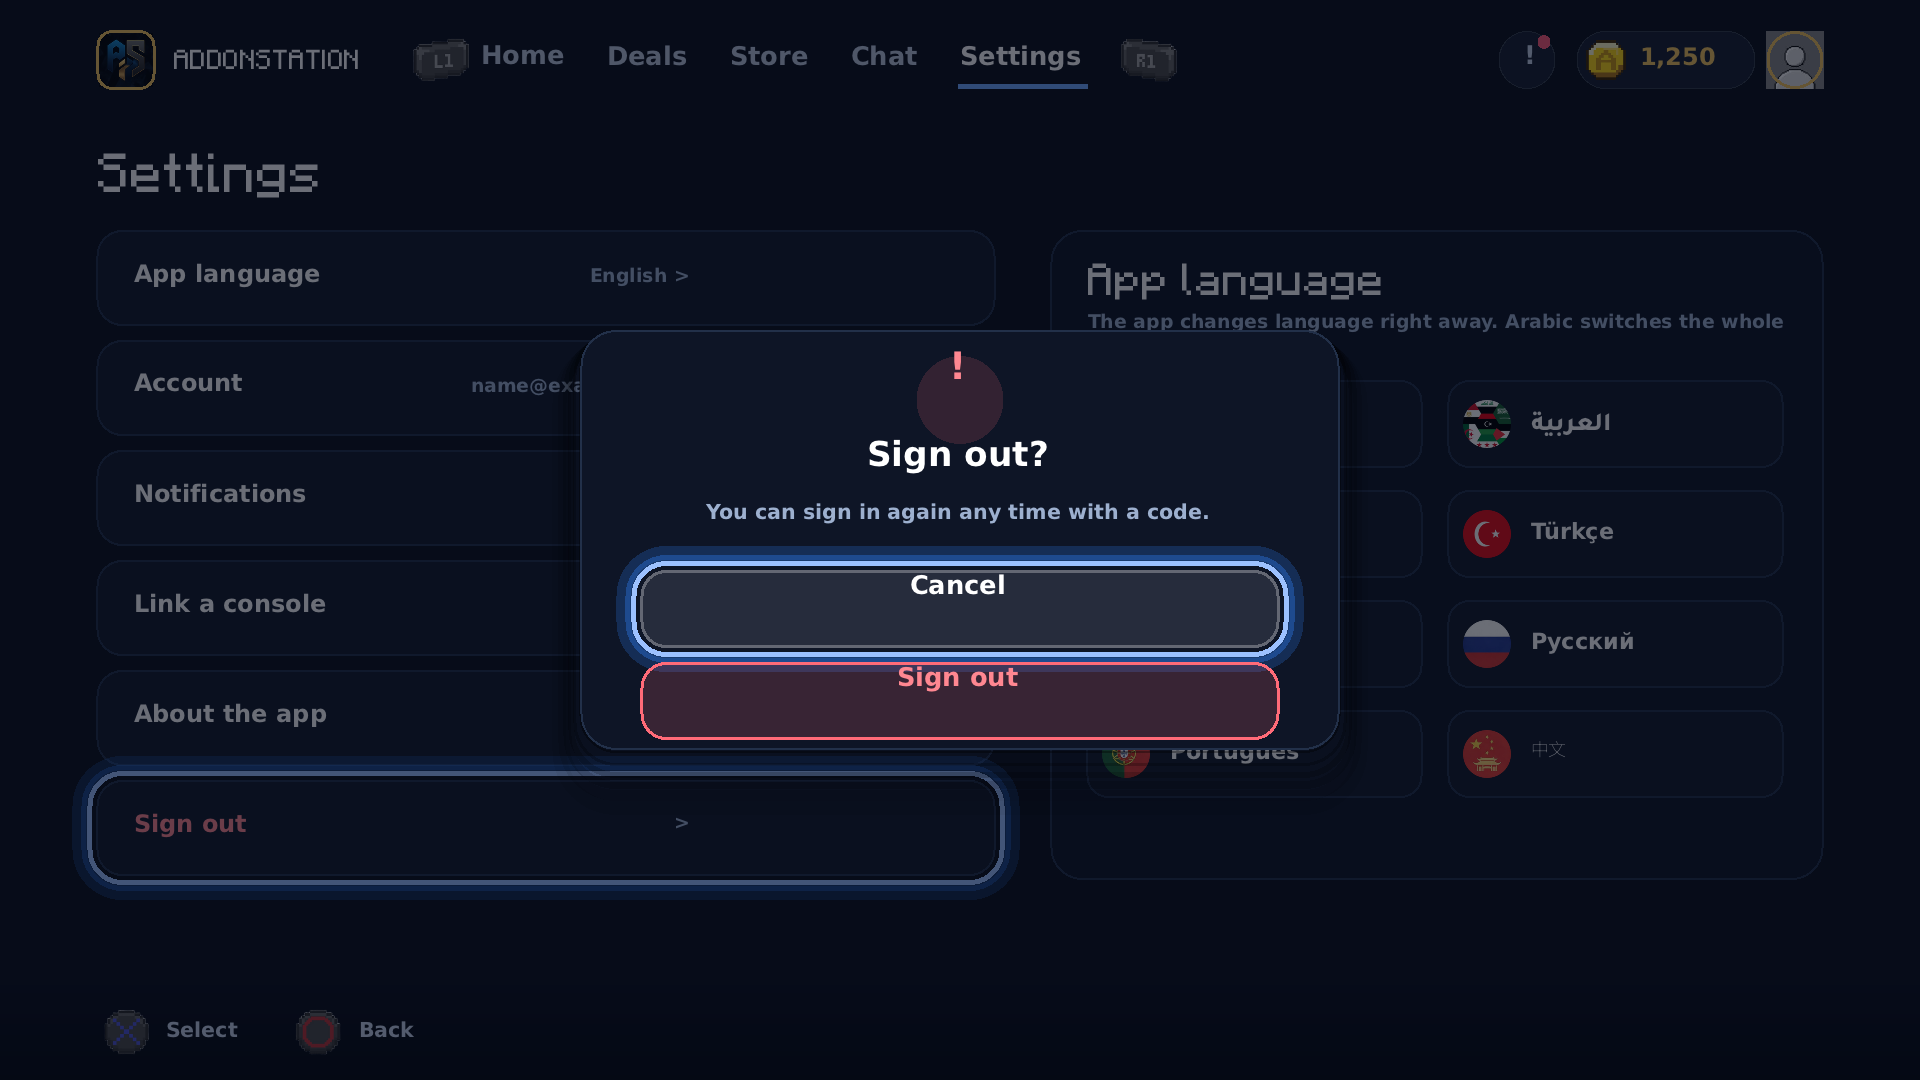
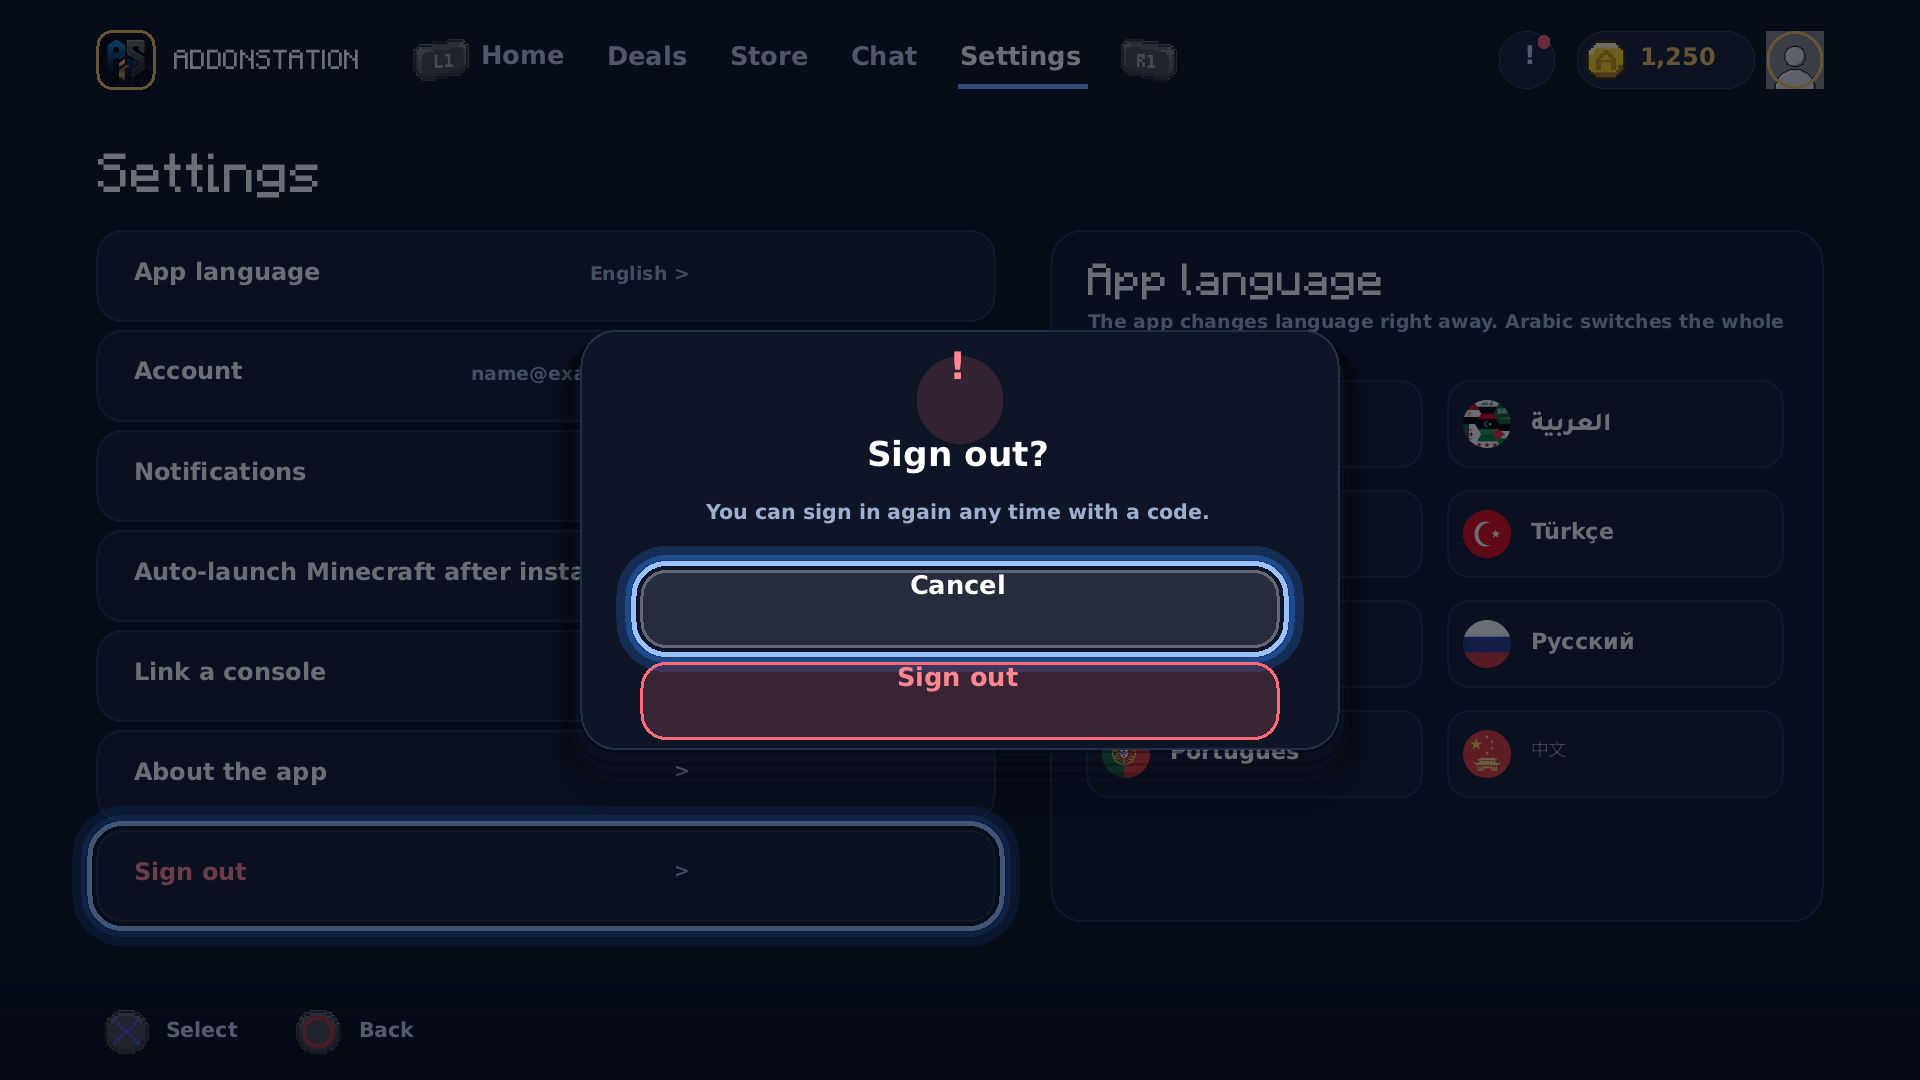
Add Settings toggle: auto-launch Minecraft after install (default OFF) [skip ci]

diff --git a/ps4-addon-test/src/screens.cpp b/ps4-addon-test/src/screens.cpp
@@ -145,6 +145,22 @@ const std::map<std::string, std::map<std::string, std::string>>& stringTable() {
         {"choose_language", {{"en", "Choose app language"}, {"ar", "اختر لغة التطبيق"},
                              {"fr", "Choisir la langue"}, {"tr", "Uygulama dilini seç"},
                              {"es", "Elegir idioma"}, {"ru", "Выберите язык"}, {"pt", "Escolher idioma"}, {"zh", "选择语言"}}},
+        {"autolaunch", {{"en", "Auto-launch Minecraft after install"},
+                        {"ar", "تشغيل Minecraft تلقائياً بعد التثبيت"},
+                        {"fr", "Lancer Minecraft après l'installation"},
+                        {"tr", "Kurulumdan sonra Minecraft'ı otomatik başlat"},
+                        {"es", "Iniciar Minecraft automáticamente al instalar"},
+                        {"ru", "Автозапуск Minecraft после установки"},
+                        {"pt", "Abrir Minecraft automaticamente após instalar"},
+                        {"zh", "安装后自动启动 Minecraft"}}},
+        {"autolaunch_on", {{"en", "Auto-launch ON"}, {"ar", "التشغيل التلقائي مُفعَّل"},
+                           {"fr", "Lancement auto activé"}, {"tr", "Otomatik başlatma açık"},
+                           {"es", "Inicio automático activado"}, {"ru", "Автозапуск включён"},
+                           {"pt", "Abertura automática ativada"}, {"zh", "自动启动已开启"}}},
+        {"autolaunch_off", {{"en", "Auto-launch OFF"}, {"ar", "التشغيل التلقائي مُعطَّل"},
+                            {"fr", "Lancement auto désactivé"}, {"tr", "Otomatik başlatma kapalı"},
+                            {"es", "Inicio automático desactivado"}, {"ru", "Автозапуск выключен"},
+                            {"pt", "Abertura automática desativada"}, {"zh", "自动启动已关闭"}}},
     };
     return kTable;
 }
@@ -1229,46 +1245,47 @@ void drawChat(UiEngine& e, int focus, bool roomOpen, const std::string& langCode
     drawLegendBar(e, {{"\xE2\x9C\x95", roomOpen ? "select" : "open"}, {"\xE2\x97\x8B", "back"}}, langCode);
 }
 
-void drawSettings(UiEngine& e, int focus, bool notifOn, const std::string& langCode) {
+void drawSettings(UiEngine& e, int focus, bool notifOn, bool autoLaunchOn, const std::string& langCode) {
     const bool rtl = langCode == "ar";
     e.clear(kBG);
     drawTopNav(e, 4, langCode, 1250);
 
     e.drawText("Settings", 96, 150, 44, kWHT, FontRole::Pixel, false, false);
 
-    struct Row { const char* label; const char* value; bool danger; };
-    const Row rows[6] = {
-        {"App language", "English >", false},
-        {"Account", "name@example.com", false},
-        {"Notifications", "", false},
-        {"Link a console", "1 device >", false},
-        {"About the app", ">", false},
-        {"Sign out", ">", true},
+    struct Row { std::string label; const char* value; bool danger; int toggle; };
+    const Row rows[7] = {
+        {"App language", "English >", false, 0},
+        {"Account", "name@example.com", false, 0},
+        {"Notifications", "", false, 1},
+        {tr("autolaunch", langCode), "", false, 2},
+        {"Link a console", "1 device >", false, 0},
+        {"About the app", ">", false, 0},
+        {"Sign out", ">", true, 0},
     };
     const int listX = 96, listW = 900;
-    for (int i = 0; i < 6; ++i) {
-        const int y = 230 + i * 110;
-        e.drawRoundRect(listX, y, listW, 96, 26, kSF);
-        e.drawRoundBorder(listX, y, listW, 96, 26, 2, kBD);
-        e.drawText(rows[i].label, listX + 36, y + 30, 28,
+    for (int i = 0; i < 7; ++i) {
+        const int y = 230 + i * 100;
+        e.drawRoundRect(listX, y, listW, 92, 26, kSF);
+        e.drawRoundBorder(listX, y, listW, 92, 26, 2, kBD);
+        e.drawText(rows[i].label, listX + 36, y + 28, 28,
                    rows[i].danger ? SDL_Color{255, 135, 145, 255} : kWHT,
-                   FontRole::Body, false, rtl);
-        if (i == 2) {
-            // toggle
+                   FontRole::Body, false, rtl, 560);
+        if (rows[i].toggle) {
+            const bool on = rows[i].toggle == 1 ? notifOn : autoLaunchOn;
             const int tx = listX + listW - 120;
-            e.drawRoundRect(tx, y + 26, 84, 44, 22, notifOn ? kBL : kBD);
-            e.drawCircle(tx + (notifOn ? 62 : 22), y + 48, 18, kWHT);
+            e.drawRoundRect(tx, y + 24, 84, 44, 22, on ? kBL : kBD);
+            e.drawCircle(tx + (on ? 62 : 22), y + 46, 18, kWHT);
         } else {
-            e.drawText(rows[i].value, listX + listW - 300, y + 34, 22, kMU,
+            e.drawText(rows[i].value, listX + listW - 300, y + 32, 22, kMU,
                        FontRole::Body, true, false, 260);
         }
-        if (focus == i) focusRing(e, listX, y, listW, 96, 26);
+        if (focus == i) focusRing(e, listX, y, listW, 92, 26);
     }
 
     // right panel: language grid
     const int rx = 1050, rw = 1920 - 96 - rx;
-    e.drawRoundRect(rx, 230, rw, 650, 32, SDL_Color{14, 21, 38, 255});
-    e.drawRoundBorder(rx, 230, rw, 650, 32, 2, kBD);
+    e.drawRoundRect(rx, 230, rw, 692, 32, SDL_Color{14, 21, 38, 255});
+    e.drawRoundBorder(rx, 230, rw, 692, 32, 2, kBD);
     e.drawText("App language", rx + 36, 260, 36, kWHT, FontRole::Pixel, false, false);
     e.drawText("The app changes language right away. Arabic switches the whole layout to right-to-left.",
                rx + 36, 310, 22, kMU, FontRole::Body, false, false, rw - 72);

diff --git a/ps4-addon-test/src/main.cpp b/ps4-addon-test/src/main.cpp
@@ -10,8 +10,9 @@
 // install page; category/filter chips apply a filter (visible active chip);
 // banner Back returns; "Shop the sale" opens Deals; L1/R1 switch tabs only
 // inside the app (Home · Deals · Store · Chat · Settings) and L2/R2 change
-// the Home offer; Settings rows act (language / notifications toggle / link
-// console / sign out with confirm dialog), text fields open the PS4 system
+// the Home offer; Settings rows act (language / notifications toggle /
+// auto-launch Minecraft after install / link console / sign out with confirm
+// dialog), text fields open the PS4 system
 // keyboard (sceImeDialog), Download installs content from the GitHub Release.
 
 #include "content_config.hpp"
@@ -68,6 +69,7 @@ struct AppState {
     int storeFilter = 0;   // Store filter chip 0..2
     int dealsFilter = 0;   // Deals chip 0..4
     bool notifOn = true;
+    bool autoLaunch = false;   // «تشغيل Minecraft تلقائياً بعد التثبيت» (يُقرأ من الإعدادات)
     bool roomOpen = false;
     bool saved = false;
 
@@ -101,7 +103,8 @@ int frameSignature(const AppState& s, double t) {
               (s.progress >= 100 ? 99 : s.progress) * 100 +
               (s.linked ? 11 : (codeSecs % 60));
     sig += s.heroIndex * 31337 + s.filterIndex * 2711 +
-           s.storeFilter * 397 + s.dealsFilter * 53;
+           s.storeFilter * 397 + s.dealsFilter * 53 +
+           (s.autoLaunch ? 31 : 0) + (s.notifOn ? 17 : 0);
     return sig;
 }
 
@@ -152,6 +155,7 @@ int main(int, char**) {
     double splashStart = bootTime;
     bool firstLaunch = true;
     state.codeUntil = bootTime + 582.0;   // 9:42 like the design
+    state.autoLaunch = pkgtest::loadAutoLaunchSetting();
 
     auto currentLang = [&state]() { return std::string(kLangCodes[state.langIndex]); };
     auto toast = [&state](const std::string& text) {
@@ -236,7 +240,8 @@ int main(int, char**) {
                         state.demoState = pkgtest::DemoState::Installed;
                         state.progress = 100;
                     }
-                });
+                },
+                state.autoLaunch);
 
             if (res.ok && res.queuedForMinecraft) {
                 state.demoState = pkgtest::DemoState::Installing;
@@ -346,8 +351,13 @@ int main(int, char**) {
                 if (state.focus == 0) { state.focus = state.langIndex; state.prevScreen = state.screen; state.screen = Screen::Language; }
                 else if (state.focus == 1) toast("Account: name@example.com");
                 else if (state.focus == 2) { state.notifOn = !state.notifOn; toast(state.notifOn ? "Notifications ON" : "Notifications OFF"); }
-                else if (state.focus == 3) { state.linked = false; state.code = makeCode(); state.codeUntil = nowSeconds() + 582.0; go(Screen::CodeLink); }
-                else if (state.focus == 4) toast("AddonStation PS4 v0.12 — official app");
+                else if (state.focus == 3) {
+                    state.autoLaunch = !state.autoLaunch;
+                    pkgtest::saveAutoLaunchSetting(state.autoLaunch);
+                    toast(pkgtest::tr(state.autoLaunch ? "autolaunch_on" : "autolaunch_off", currentLang()));
+                }
+                else if (state.focus == 4) { state.linked = false; state.code = makeCode(); state.codeUntil = nowSeconds() + 582.0; go(Screen::CodeLink); }
+                else if (state.focus == 5) toast("AddonStation PS4 v0.12 — official app");
                 else go(Screen::Confirm);
                 break;
             case Screen::Detail:
@@ -425,7 +435,7 @@ int main(int, char**) {
                 break;
             }
             case Screen::Settings: {
-                if (dy != 0) state.focus = std::max(0, std::min(5, state.focus + dy));
+                if (dy != 0) state.focus = std::max(0, std::min(6, state.focus + dy));
                 break;
             }
             case Screen::Confirm: {
@@ -602,13 +612,13 @@ int main(int, char**) {
                     pkgtest::drawChat(engine, state.focus, state.roomOpen, lang);
                     break;
                 case Screen::Settings:
-                    pkgtest::drawSettings(engine, state.focus, state.notifOn, lang);
+                    pkgtest::drawSettings(engine, state.focus, state.notifOn, state.autoLaunch, lang);
                     break;
                 case Screen::Detail:
                     pkgtest::drawInstallDemo(engine, state.demoState, state.progress, lang);
                     break;
                 case Screen::Confirm:
-                    pkgtest::drawSettings(engine, state.focus, state.notifOn, lang);
+                    pkgtest::drawSettings(engine, state.focus, state.notifOn, state.autoLaunch, lang);
                     pkgtest::drawConfirmDialog(engine, "Sign out?",
                                                "You can sign in again any time with a code.",
                                                "Sign out", "Cancel",

diff --git a/ps4-addon-test/src/installer.cpp b/ps4-addon-test/src/installer.cpp
@@ -716,6 +716,29 @@ bool copyTreeRecursive(const std::string& srcDir,
 // عام (external linkage) — يُستدعى من main.cpp لزر «فتح Minecraft» (△).
 bool launchMinecraftOnPs4() { return launchMinecraftImpl(); }
 
+bool loadAutoLaunchSetting(const std::string& configPath) {
+    std::FILE* fp = std::fopen(configPath.c_str(), "rb");
+    if (!fp) return false;   // الافتراضي: إيقاف (اللعبة لا تُطلق تلقائياً)
+    char v = '0';
+    if (std::fread(&v, 1, 1, fp) != 1) v = '0';
+    std::fclose(fp);
+    return v == '1';
+}
+
+bool saveAutoLaunchSetting(bool enabled, const std::string& configPath) {
+    const std::string parent = configPath.substr(0, configPath.find_last_of('/'));
+    if (!parent.empty()) {
+        int err = 0;
+        ensureDirectory(parent, err);
+    }
+    std::FILE* fp = std::fopen(configPath.c_str(), "wb");
+    if (!fp) return false;
+    const char v = enabled ? '1' : '0';
+    const bool ok = std::fwrite(&v, 1, 1, fp) == 1;
+    std::fclose(fp);
+    return ok;
+}
+
 std::string formatEnjoyNotification(const std::string& addonName, const std::string& langCode) {
     if (langCode == "ar") {
         return "تم تثبيت " + addonName + " — استمتع!";
@@ -854,7 +877,8 @@ CopyResult installOrQueueAddon(const std::string& sourceRawPath,
                                const std::string& preferredMojangDir,
                                const std::string& targetCategory,
                                const std::string& langCode,
-                               ProgressCallback onProgress) {
+                               ProgressCallback onProgress,
+                               bool autoLaunchMinecraft) {
     CopyResult result;
     result.targetCategory = sanitizeTargetCategory(targetCategory);
 
@@ -954,11 +978,12 @@ CopyResult installOrQueueAddon(const std::string& sourceRawPath,
 
     result.ok = true;
     result.queuedForMinecraft = true;
-    // v0.13: اللعبة لا تُطلق تلقائياً بعد التثبيت — اُلغِي الطلب.
-    // الملف يبقى مؤجَّلاً في stageDir وتُكمله المزامنة التلقائية
+    // v0.13: إطلاق Minecraft تلقائياً اختياري — يُفعَّل من الإعدادات
+    // «تشغيل Minecraft تلقائياً بعد التثبيت» (الافتراضي: إيقاف). حتى مع
+    // الإيقاف يبقى الملف مؤجَّلاً في stageDir وتُكمله المزامنة التلقائية
     // (syncPendingAddonsIfMounted) في أول ظهور لمجلد com.mojang، سواء
     // شغّلت Minecraft بنفسك من △ في صفحة الإضافة أو يدوياً من القائمة.
-    result.launchedMinecraft = false;
+    result.launchedMinecraft = autoLaunchMinecraft && launchMinecraftOnPs4();
     result.message = formatInstallPhaseLabel(InstallPhase::Installing, langCode);
     return result;
 }

diff --git a/ps4-addon-test/src/installer.hpp b/ps4-addon-test/src/installer.hpp
@@ -49,8 +49,10 @@ CopyResult copyAddonFolder(const std::string& sourceFolder,
 // 2. Routes to resource_packs, behavior_packs, or minecraftWorlds automatically.
 // 3. If Minecraft is open: installs directly into com.mojang, cleans up any temporary .raw in stageDir,
 //    records in installed.json, and sends the 8-language "Enjoy!" PS4 notification.
-// 4. If Minecraft is closed: stages .raw in stageDir, launches the installed Minecraft CUSAxxxxx automatically,
-//    and once syncPendingAddonsIfMounted() finishes copying to com.mojang, deletes the staged .raw to free HDD space.
+// 4. If Minecraft is closed: stages .raw in stageDir WITHOUT launching the game (mod #4 default).
+//    Pass autoLaunchMinecraft=true (the Settings toggle) to also launch the detected Minecraft
+//    CUSAxxxxx right away so the deferred install completes immediately. Either way, once
+//    syncPendingAddonsIfMounted() finishes copying to com.mojang, the staged .raw is deleted.
 CopyResult installOrQueueAddon(
     const std::string& sourceRawPath,
     const std::string& addonFolderName,
@@ -58,7 +60,13 @@ CopyResult installOrQueueAddon(
     const std::string& preferredMojangDir = "",
     const std::string& targetCategory = "resource_packs",
     const std::string& langCode = "en",
-    ProgressCallback onProgress = nullptr);
+    ProgressCallback onProgress = nullptr,
+    bool autoLaunchMinecraft = false);
+
+// إعداد «تشغيل Minecraft تلقائياً بعد التثبيت» (الافتراضي: إيقاف). يُحفَظ في ملف
+// صغير (/data/AddonStation/autolaunch.cfg) ليبقى بعد إعادة تشغيل التطبيق.
+bool loadAutoLaunchSetting(const std::string& configPath = "/data/AddonStation/autolaunch.cfg");
+bool saveAutoLaunchSetting(bool enabled, const std::string& configPath = "/data/AddonStation/autolaunch.cfg");
 
 // Background watcher: checks if ANY Minecraft com.mojang is mounted, installs pending addons from stageDir,
 // deletes the staged .raw files after copying to free PS4 disk space, and triggers the 8-language notification.

diff --git a/ps4-addon-test/tests/test_installer.cpp b/ps4-addon-test/tests/test_installer.cpp
@@ -150,6 +150,32 @@ int main() {
         assert(!fileExists(downloadedRaw));
     }
 
-    std::printf("installer host tests passed (dynamic paths, dual-mode, cleanup, 8-lang).\n");
+    // 6. Auto-launch setting round-trip + opt-in launch of deferred installs
+    {
+        const std::string cfg = root + "/autolaunch.cfg";
+        assert(!pkgtest::loadAutoLaunchSetting(cfg));                 // default OFF
+        assert(pkgtest::saveAutoLaunchSetting(true, cfg));
+        assert(pkgtest::loadAutoLaunchSetting(cfg));
+        assert(pkgtest::saveAutoLaunchSetting(false, cfg));
+        assert(!pkgtest::loadAutoLaunchSetting(cfg));
+
+        // deferred install with autoLaunch=true reports the launch request
+        const std::string autoMojangDir =
+            root + "/auto_mc/CUSA00265/user497444003/games/com.mojang";
+        const pkgtest::CopyResult autoRes = pkgtest::installOrQueueAddon(
+            testRaw, "My Pack 1.0", stageDir, autoMojangDir, "resource_packs", "en", nullptr, true);
+        assert(autoRes.ok);
+        assert(autoRes.queuedForMinecraft);
+        assert(autoRes.launchedMinecraft);   // host stub launch succeeds
+
+        // default (autoLaunch omitted) never launches the game (mod #4)
+        const pkgtest::CopyResult noAutoRes = pkgtest::installOrQueueAddon(
+            testRaw, "My Pack 1.0", stageDir, autoMojangDir, "resource_packs", "en");
+        assert(noAutoRes.ok);
+        assert(noAutoRes.queuedForMinecraft);
+        assert(!noAutoRes.launchedMinecraft);
+    }
+
+    std::printf("installer host tests passed (dynamic paths, dual-mode, cleanup, 8-lang, autolaunch).\n");
     return 0;
 }

diff --git a/ps4-addon-test/src/screens.hpp b/ps4-addon-test/src/screens.hpp
@@ -68,7 +68,7 @@ void drawDeals(UiEngine& e, int focus, int filterIndex, const std::string& langC
 // filterIndex: active Store filter chip 0..2 (Addons Worlds Newest)
 void drawStore(UiEngine& e, int focus, int filterIndex, const std::string& langCode);
 void drawChat(UiEngine& e, int focus, bool roomOpen, const std::string& langCode);
-void drawSettings(UiEngine& e, int focus, bool notifOn, const std::string& langCode);
+void drawSettings(UiEngine& e, int focus, bool notifOn, bool autoLaunchOn, const std::string& langCode);
 void drawConfirmDialog(UiEngine& e, const std::string& title, const std::string& sub,
                        const std::string& yesLabel, const std::string& noLabel,
                        int focus, const std::string& langCode);

diff --git a/ps4-addon-test/tools/ps4_design_preview.cpp b/ps4-addon-test/tools/ps4_design_preview.cpp
@@ -123,12 +123,12 @@ int main(int argc, char** argv) {
 
     // 16. Settings
     engine.clear(theme::BG);
-    drawSettings(engine, 0, true, "en");
+    drawSettings(engine, 0, true, true, "en");
     savePng(engine, outDir + "/ps4_settings_en.png");
 
     // 17. Confirm dialog (sign out)
     engine.clear(theme::BG);
-    drawSettings(engine, 5, true, "en");
+    drawSettings(engine, 6, true, true, "en");
     drawConfirmDialog(engine, "Sign out?", "You can sign in again any time with a code.",
                       "Sign out", "Cancel", 0, "en");
     savePng(engine, outDir + "/ps4_confirm_en.png");
